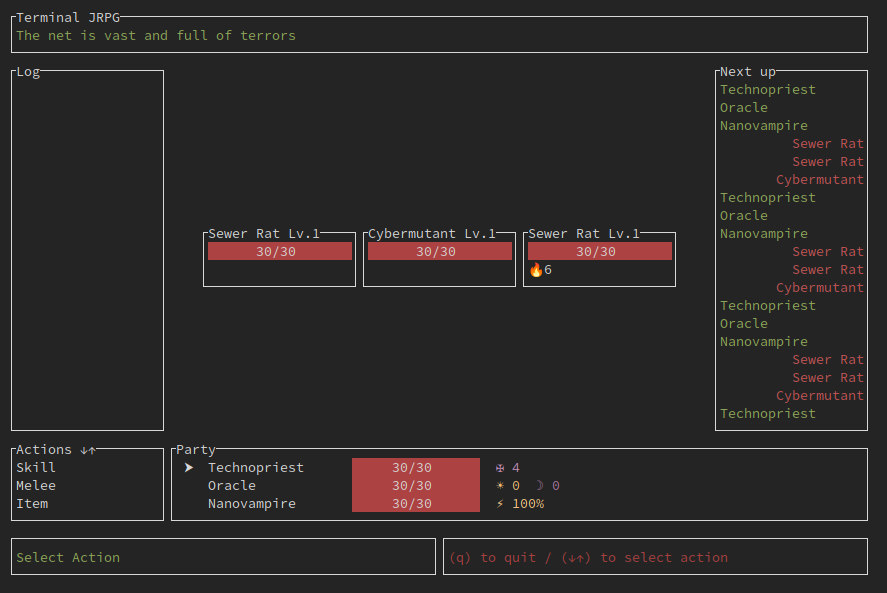
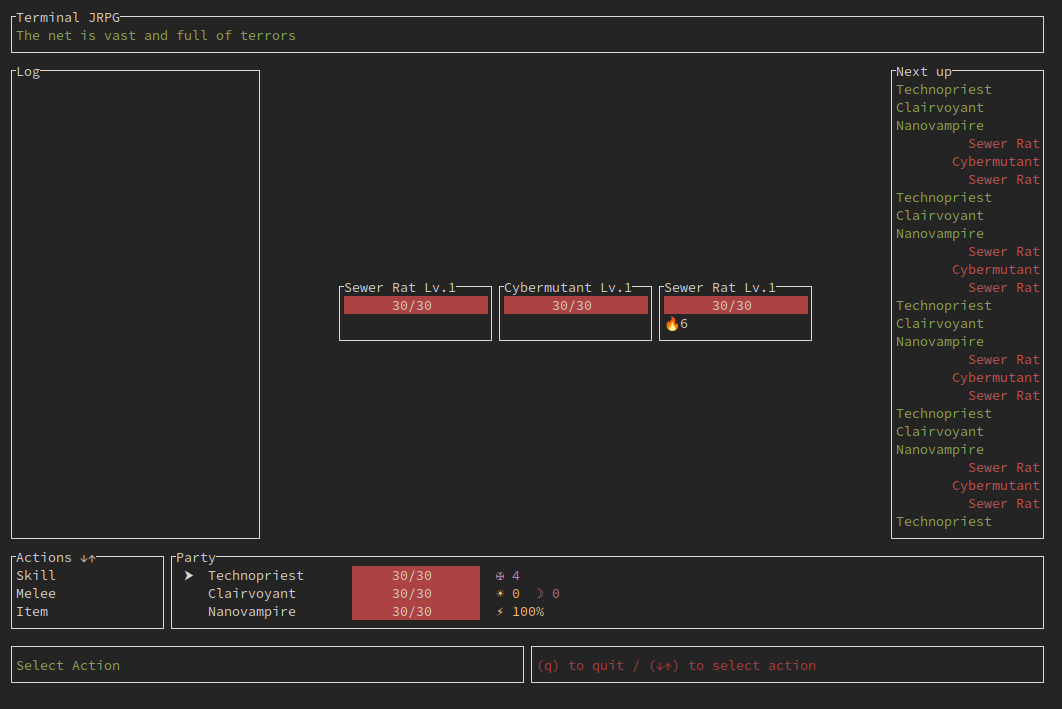
Some refactoring

Changed region(s): [[0.0, 0.0, 1.0, 0.7892], [0.0, 0.6981, 1.0, 0.9713], [0.2131, 0.3642, 0.7914, 0.4857]]

diff --git a/src/app.rs b/src/app.rs
@@ -1,4 +1,7 @@
-use std::cmp::Ordering;
+use std::{
+    cmp::Ordering,
+    collections::{BTreeSet, BinaryHeap},
+};
 
 use hecs::{Entity, With, World};
 use hecs_macros::Bundle;
@@ -22,6 +25,7 @@ pub struct App {
     pub current_screen: CurrentScreen,
     pub world: World,
     pub turn: Option<Entity>,
+    pub next_up: Option<NextUp>,
 }
 
 // Basic
@@ -59,7 +63,7 @@ pub enum Job {
     Technopriest {
         prayers: u8,
     },
-    Oracle {
+    Clairvoyant {
         sun: u8,
         moon: u8,
     },
@@ -68,60 +72,76 @@ pub enum Job {
     },
 }
 
-// Status
+// Misc
 #[derive(Default)]
 pub struct Party;
 #[derive(Default)]
 pub struct Hostile;
 pub struct Target;
+#[derive(Default)]
+pub struct Initiative(pub f32);
+
+// Status
 pub struct Burning(pub u8);
 pub struct Frozen;
 pub struct Confused;
 pub struct Blind;
 pub struct Stunned;
 
-#[derive(Clone, Copy)]
-pub struct Order {
-    pub turn: u8,
+#[derive(Clone, PartialEq)]
+pub struct InitiativeInfo {
+    pub initiative: f32,
     pub speed: u32,
-    pub offset: f32,
-    pub friendly: bool,
+    pub hostile: bool,
+    pub entity: Entity,
 }
 
-impl PartialEq for Order {
-    fn eq(&self, other: &Self) -> bool {
-        matches!(self.cmp(other), Ordering::Equal)
-    }
-}
+impl Eq for InitiativeInfo {}
 
-impl Eq for Order {}
-
-impl Ord for Order {
+impl Ord for InitiativeInfo {
     fn cmp(&self, other: &Self) -> Ordering {
-        let a = self.turn as f32 / self.speed as f32 + self.offset;
-        let b = other.turn as f32 / other.speed as f32 + other.offset;
-        let res = b.partial_cmp(&a); // Order flipped because binary_heap is a max heap
-        if matches!(res, None) || matches!(res, Some(Ordering::Equal)) {
-            if self.friendly == other.friendly {
-                Ordering::Equal
-            } else if self.friendly {
-                Ordering::Greater
-            } else {
+        let res = other
+            .initiative
+            .partial_cmp(&self.initiative)
+            .unwrap_or(Ordering::Equal); // Reversed because BinaryHeap is a max heap
+        if matches!(res, Ordering::Equal) {
+            if self.hostile == other.hostile {
+                other.entity.cmp(&self.entity)
+            } else if self.hostile {
                 Ordering::Less
+            } else {
+                Ordering::Greater
             }
         } else {
-            res.unwrap()
+            res
         }
     }
 }
 
-impl PartialOrd for Order {
+impl PartialOrd for InitiativeInfo {
     fn partial_cmp(&self, other: &Self) -> Option<Ordering> {
         Some(self.cmp(other))
     }
 }
 
-enum TurnPriority {
+#[derive(Clone)]
+pub struct NextUp(pub BinaryHeap<InitiativeInfo>);
+
+impl Iterator for NextUp {
+    type Item = InitiativeInfo;
+    fn next(&mut self) -> Option<Self::Item> {
+        let item = self.0.pop();
+        if let Some(i) = &item {
+            self.0.push(InitiativeInfo {
+                initiative: i.initiative + 1. / i.speed as f32,
+                ..*i
+            });
+        }
+        item
+    }
+}
+
+pub enum Advantage {
     Friendly,
     Enemy,
     Neutral,
@@ -146,6 +166,7 @@ struct CharacterBundle {
     level: Level,
     xp: Xp,
     stats: Stats,
+    initiative: Initiative,
     party: Party,
 }
 
@@ -156,6 +177,7 @@ struct NPCBundle {
     level: Level,
     xp: Xp,
     stats: Stats,
+    initiative: Initiative,
     hostile: Hostile,
 }
 
@@ -174,43 +196,6 @@ fn level_up(world: &mut World) {
     }
 }
 
-fn start_combat(priority: TurnPriority, world: &mut World) {
-    let mut to_insert = Vec::new();
-    for (entity, stats) in world.query::<With<&Stats, &Party>>().iter() {
-        to_insert.push((
-            entity,
-            Order {
-                speed: stats.speed,
-                offset: 0.,
-                turn: if matches!(priority, TurnPriority::Enemy) {
-                    2
-                } else {
-                    1
-                },
-                friendly: true,
-            },
-        ))
-    }
-    for (entity, stats) in world.query::<With<&Stats, &Hostile>>().iter() {
-        to_insert.push((
-            entity,
-            Order {
-                speed: stats.speed,
-                offset: 0.,
-                turn: if matches!(priority, TurnPriority::Friendly) {
-                    2
-                } else {
-                    1
-                },
-                friendly: false,
-            },
-        ))
-    }
-    to_insert.into_iter().for_each(|(entity, order)| {
-        world.insert_one(entity, order).unwrap();
-    });
-}
-
 impl App {
     pub fn new() -> App {
         let mut world = World::new();
@@ -225,14 +210,14 @@ impl App {
         //     job: Job::Netrunner { ram: 16, heat: 54 },
         //     ..Default::default()
         // });
-        let turn = world.spawn(CharacterBundle {
+        world.spawn(CharacterBundle {
             name: Name("Technopriest".into()),
             job: Job::Technopriest { prayers: 4 },
             ..Default::default()
         });
         world.spawn(CharacterBundle {
-            name: Name("Oracle".into()),
-            job: Job::Oracle { sun: 0, moon: 0 },
+            name: Name("Clairvoyant".into()),
+            job: Job::Clairvoyant { sun: 0, moon: 0 },
             ..Default::default()
         });
         world.spawn(CharacterBundle {
@@ -258,13 +243,12 @@ impl App {
 
         level_up(&mut world);
 
-        start_combat(TurnPriority::Neutral, &mut world);
-
         App {
             game_state: GameState::Combat,
             current_screen: CurrentScreen::Main,
             world,
-            turn: Some(turn),
+            turn: None,
+            next_up: None,
         }
     }
 
@@ -295,5 +279,39 @@ impl App {
             },
             _ => None,
         }
+    }
+    pub fn start_combat(&mut self, advantage: Advantage) {
+        for (_, (stats, Initiative(initiative), hostile)) in
+            self.world
+                .query_mut::<(&Stats, &mut Initiative, Option<&Hostile>)>()
+        {
+            *initiative = 1. / stats.speed as f32;
+            if matches!(advantage, Advantage::Friendly) && hostile.is_some()
+                || matches!(advantage, Advantage::Enemy) && hostile.is_none()
+            {
+                *initiative *= 2.;
+            }
+        }
+        self.refresh_next_up();
+        self.turn = self
+            .next_up
+            .as_ref()
+            .and_then(|nu| nu.0.peek().and_then(|i| Some(i.entity)));
+    }
+
+    fn refresh_next_up(&mut self) {
+        self.next_up = Some(NextUp(BinaryHeap::from_iter(
+            self.world
+                .query::<(&Initiative, &Stats, Option<&Hostile>)>()
+                .iter()
+                .map(
+                    |(entity, (&Initiative(initiative), stats, hostile))| InitiativeInfo {
+                        initiative,
+                        speed: stats.speed,
+                        hostile: hostile.is_some(),
+                        entity,
+                    },
+                ),
+        )));
     }
 }

diff --git a/src/ui.rs b/src/ui.rs
@@ -1,4 +1,4 @@
-use std::collections::BinaryHeap;
+use std::{cmp::Ordering, collections::BinaryHeap, u32};
 
 use hecs::With;
 use ratatui::{
@@ -10,7 +10,8 @@ use ratatui::{
 };
 
 use crate::app::{
-    App, Burning, CurrentScreen, GameState, Health, Hostile, Job, Level, Name, Order, Party, Stats,
+    App, Burning, CurrentScreen, GameState, Health, Hostile, Initiative, InitiativeInfo, Job,
+    Level, Name, NextUp, Party, Stats,
 };
 
 pub fn ui(frame: &mut Frame, app: &App) {
@@ -50,7 +51,7 @@ fn draw_field(frame: &mut Frame, rect: Rect, app: &App) {
     match app.game_state {
         GameState::Combat => {
             let combat_chunks = Layout::horizontal(vec![
-                Constraint::Length(20),
+                Constraint::Length(32),
                 Constraint::Fill(1),
                 Constraint::Length(20),
             ])
@@ -131,48 +132,20 @@ fn draw_enemies(frame: &mut Frame, rect: Rect, app: &App) {
     });
 }
 
-#[derive(PartialEq, PartialOrd, Eq, Ord)]
-struct OrderInfo {
-    order: Order,
-    name: String,
-}
-struct NextUp(BinaryHeap<OrderInfo>);
-impl Iterator for NextUp {
-    type Item = OrderInfo;
-    fn next(&mut self) -> Option<Self::Item> {
-        let item = self.0.pop();
-        if let Some(i) = &item {
-            self.0.push(OrderInfo {
-                order: Order {
-                    turn: i.order.turn + 1,
-                    ..i.order
-                },
-                name: i.name.clone(),
-            });
-        }
-        item
-    }
-}
-
 fn draw_order(frame: &mut Frame, rect: Rect, app: &App) {
-    let next_up = NextUp(BinaryHeap::from_iter(
-        app.world
-            .query::<(&Order, &Name)>()
-            .iter()
-            .map(|(_, (order, Name(name)))| OrderInfo {
-                name: name.clone(),
-                order: *order,
-            }),
-    ));
+    let Some(next_up) = app.next_up.clone() else {
+        return;
+    };
     frame.render_widget(
         Paragraph::new(Text::from(
             next_up
                 .take(rect.height as usize - 2)
                 .map(|i| {
-                    if i.order.friendly {
-                        Line::raw(i.name).left_aligned().style(Color::Green)
+                    let name = app.world.get::<&Name>(i.entity).unwrap().0.clone();
+                    if i.hostile {
+                        Line::raw(name).right_aligned().style(Color::LightRed)
                     } else {
-                        Line::raw(i.name).right_aligned().style(Color::LightRed)
+                        Line::raw(name).left_aligned().style(Color::Green)
                     }
                 })
                 .collect::<Vec<_>>(),
@@ -261,7 +234,7 @@ fn draw_main(frame: &mut Frame, rect: Rect, app: &App) {
                     Job::Technopriest { prayers } => {
                         Line::styled(format!("✠ {}", prayers), Color::LightMagenta)
                     }
-                    Job::Oracle { sun, moon } => Line::from(vec![
+                    Job::Clairvoyant { sun, moon } => Line::from(vec![
                         Span::styled(format!("☀ {}", sun), Color::Yellow),
                         Span::styled(format!("  ☽ {}", moon), Color::Magenta),
                     ]),

diff --git a/src/main.rs b/src/main.rs
@@ -19,6 +19,7 @@ fn main() -> Result<()> {
 
 fn run(mut terminal: DefaultTerminal) -> Result<()> {
     let mut app = App::new();
+    app.start_combat(app::Advantage::Neutral);
     loop {
         terminal.draw(|f| ui(f, &app))?;
         if let Event::Key(key) = event::read()? {

diff --git a/docs/characters.md b/docs/characters.md
@@ -14,10 +14,10 @@ DoTs and CC. RAM is used up while enemy is affected by status effect. Tradeoff b
 
 Main tank, paladin. Build up prayers by taking hits or using melee attacks. Skills consume prayers.
 
-## Oracle
+## Clairvoyant
 **Resources:** Sun, Moon
 
-Tarot themed. Keep sun and moon charges balanced for increased crit damage.
+Tarot themed. Keep sun and moon charges balanced for increased crit damage. Skills that delay enemy turns or let teammates play immediately.
 
 ## Nanovampire
 **Resources:** Nanobots (battery)

diff --git a/docs/mechanics.md b/docs/mechanics.md
@@ -41,3 +41,7 @@ No wearables; instead characters have a number of character mod slots an a small
 
 ## Map generation
 Procedurally generated maps with a few different biomes such as street, sewers, megabuilding.
+
+## Speed
+The character with lowest initiative goes first.
+Initiative = turn / speed + offset
